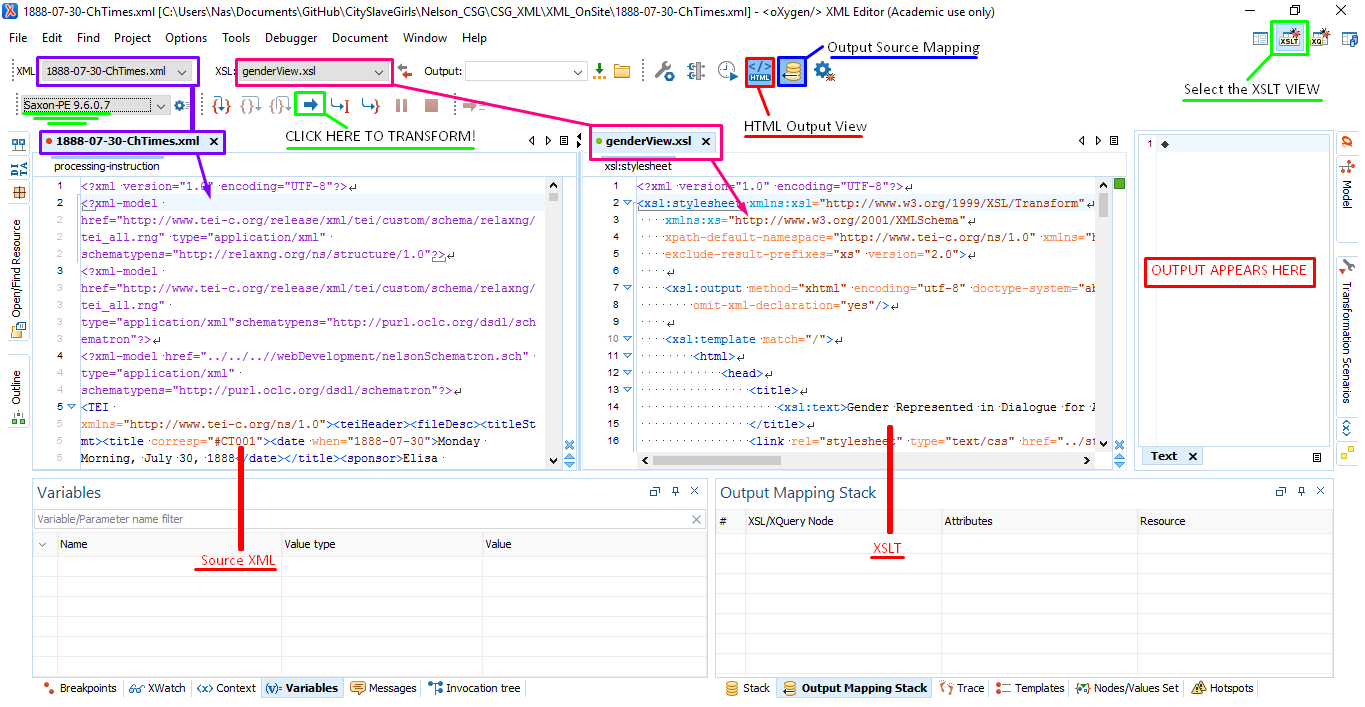
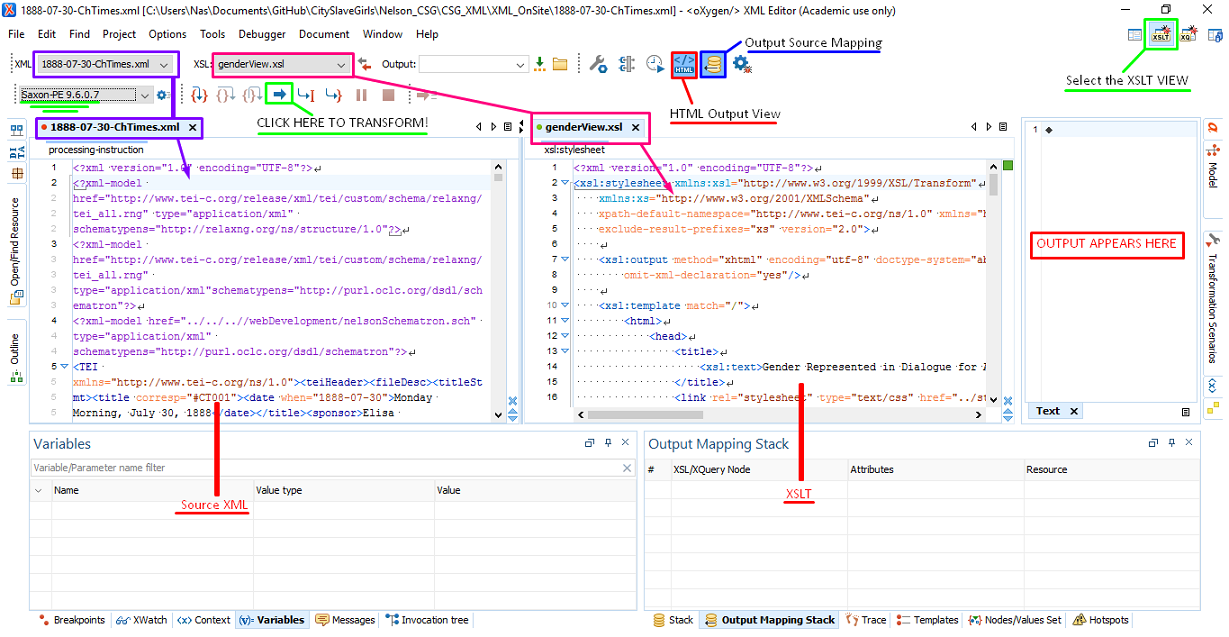
calling on correct image in ExplainXSLT and resizing image

diff --git a/dh-courses-Common/explainXSLT.html b/dh-courses-Common/explainXSLT.html
@@ -76,7 +76,7 @@
          				it in the output window on the right: 
       </p>
       			
-      <div class="wideImage"><img src="oXygenXSLTscrn1.png" alt="screen capture in oXygen of XSLT debugger" /></div>
+      <div class="wideImage"><img src="ExplainXSLT_oXygenView.png" alt="screen capture in oXygen of XSLT debugger" /></div>
       			
       <h3>XSLT’s Built-in Rules</h3>
       			
